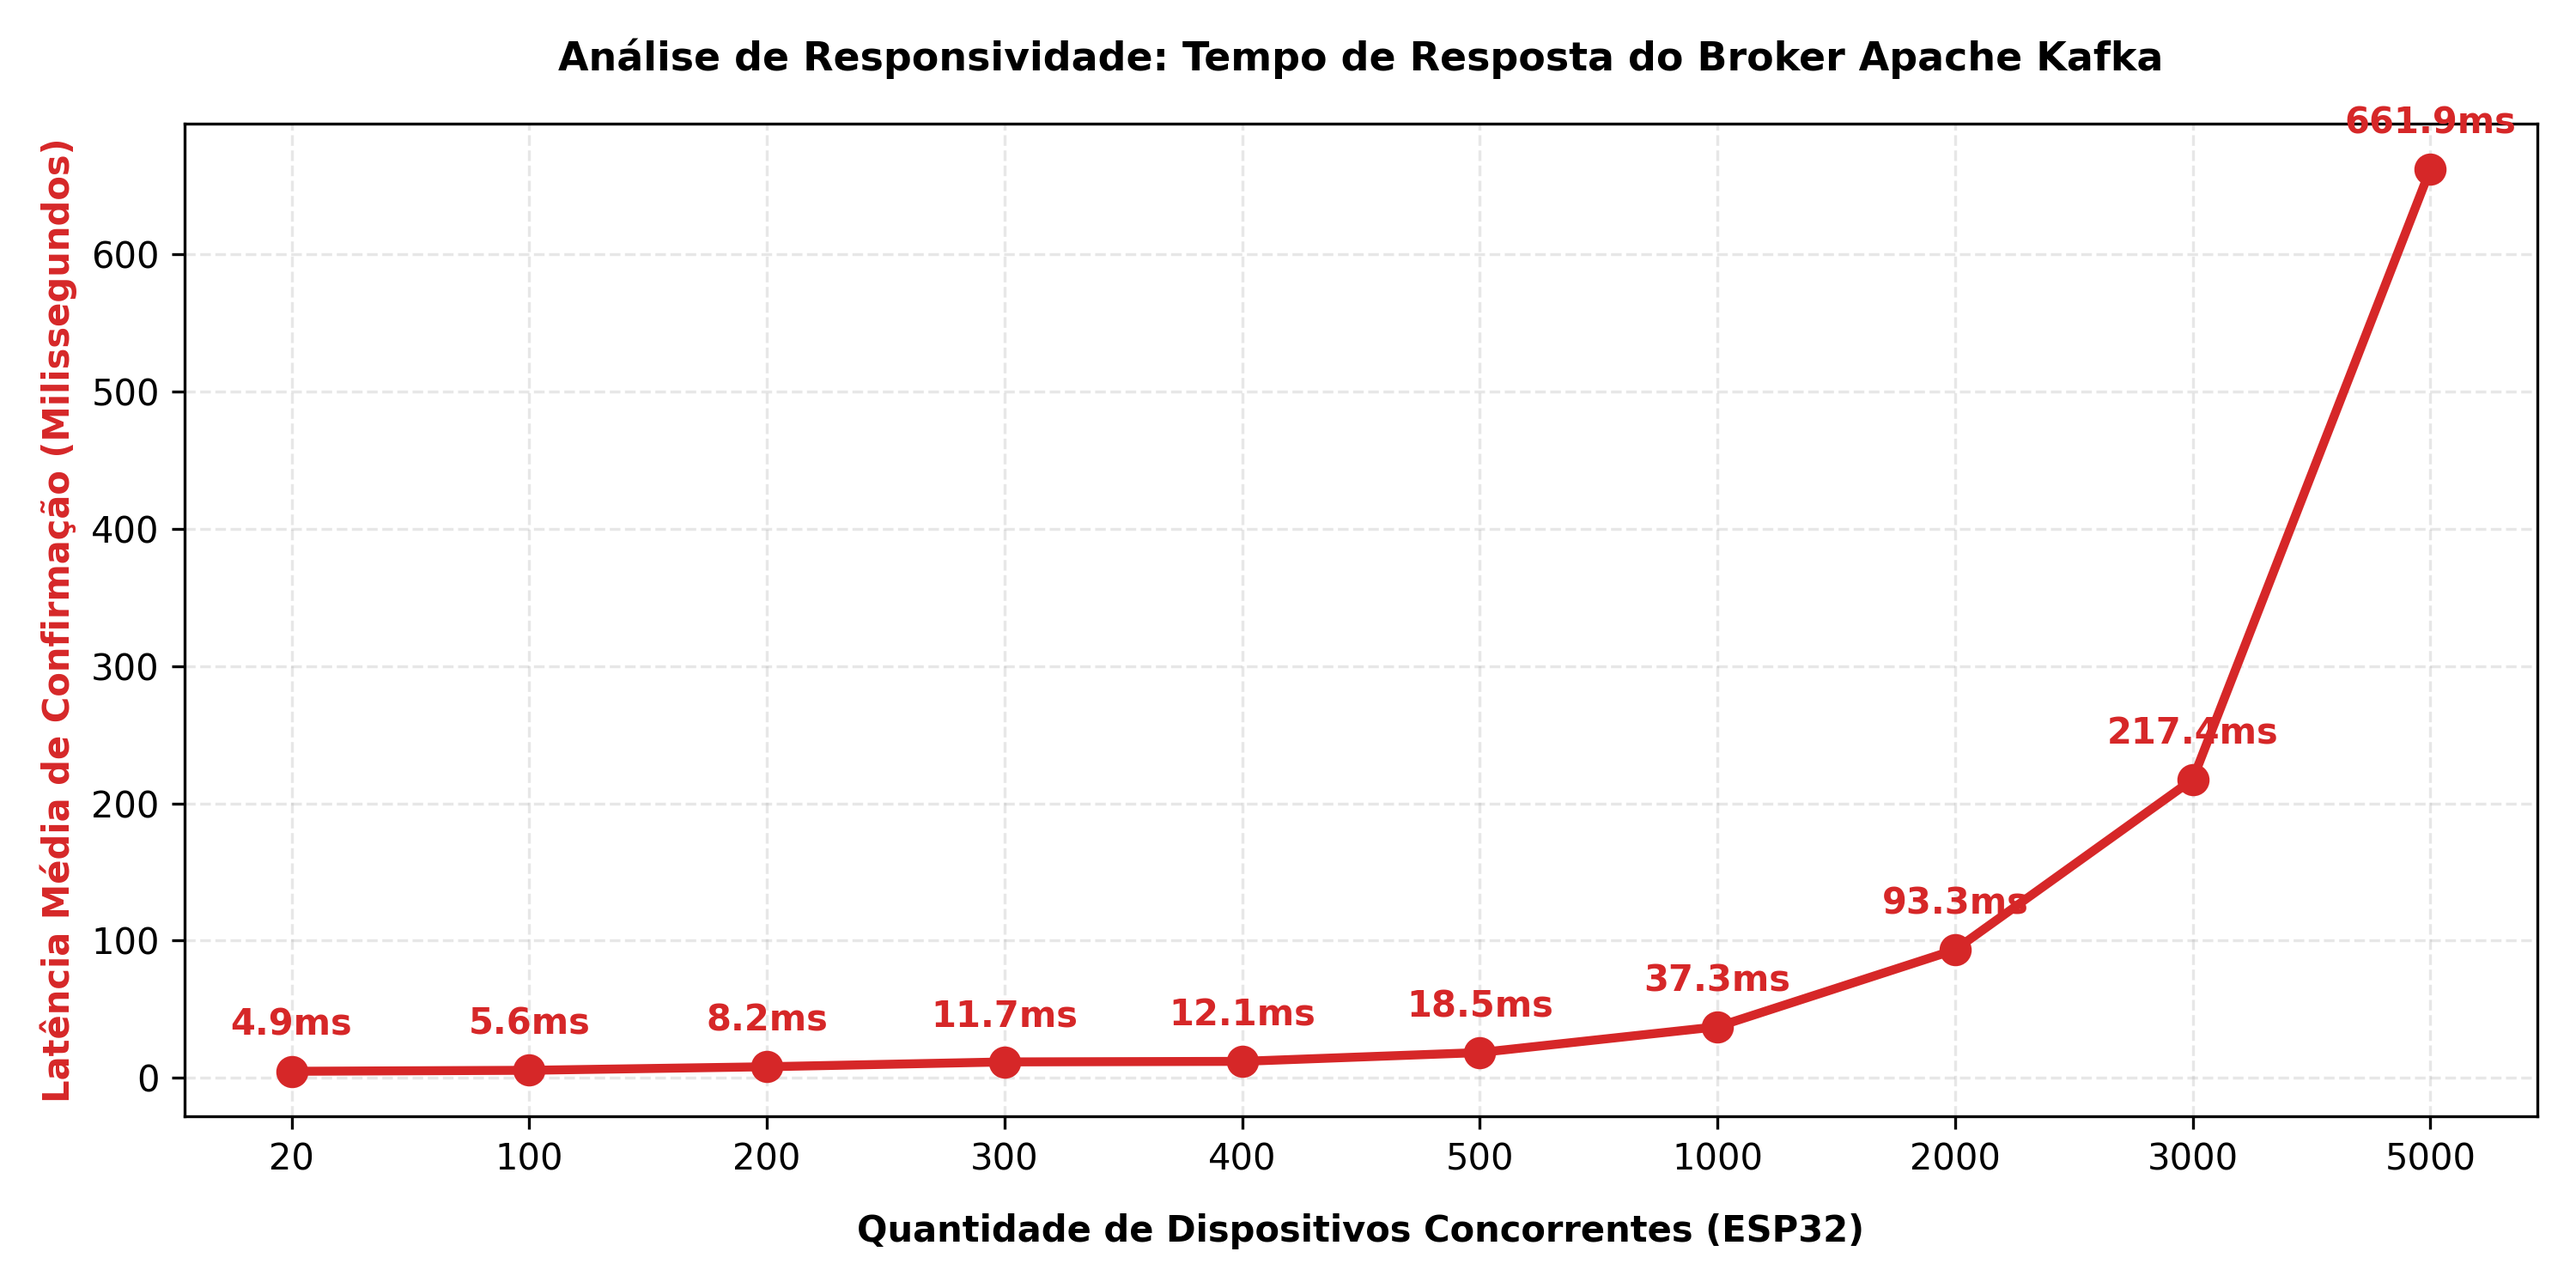
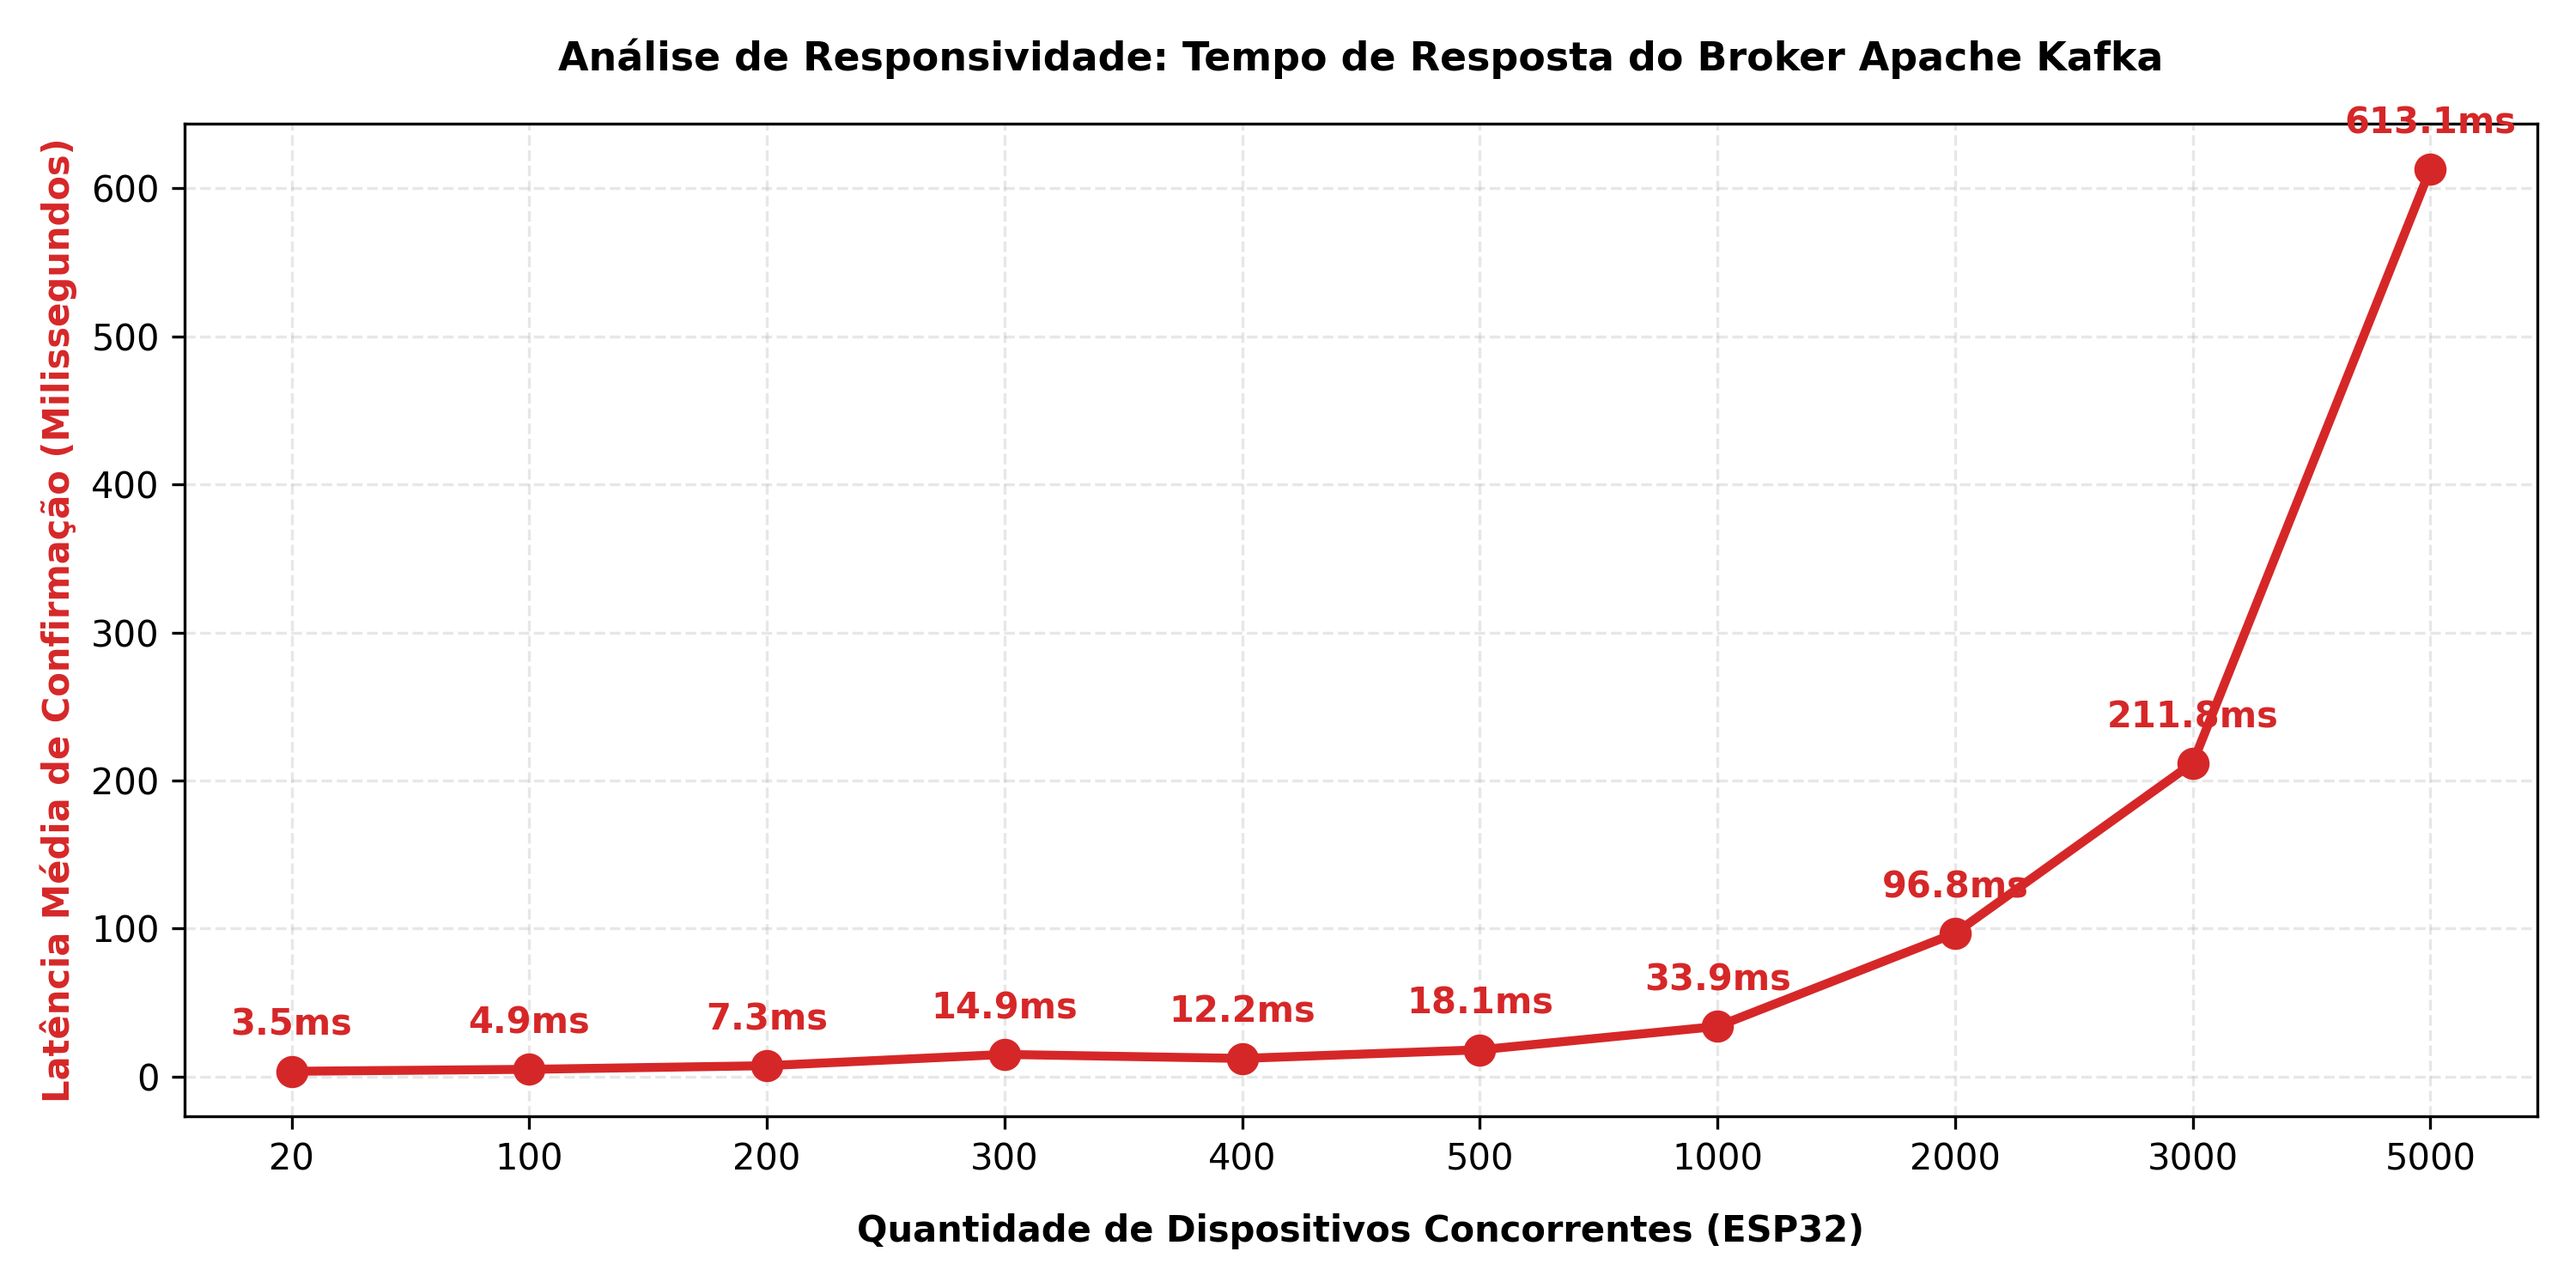
atualizando readme

diff --git a/monitor_postgres_tempo_real.py b/monitor_postgres_tempo_real.py
@@ -1,0 +1,139 @@
+import subprocess
+import sys
+import time
+from pathlib import Path
+
+
+PROJECT_ROOT = Path(__file__).resolve().parent
+DOCKER_DIR = PROJECT_ROOT / "docker"
+POSTGRES_CONTAINER = "postgres_db"
+POSTGRES_USER = "admin"
+POSTGRES_DB = "incendios_db"
+REFRESH_SECONDS = 2
+ROW_LIMIT = 10
+
+
+def run_command(command, cwd=None, check=True):
+    return subprocess.run(
+        command,
+        cwd=cwd,
+        check=check,
+        text=True,
+        capture_output=True,
+    )
+
+
+def ensure_docker_compose_up():
+    print("Subindo a infraestrutura Docker...")
+    result = run_command(["docker", "compose", "up", "-d"], cwd=DOCKER_DIR)
+    if result.stdout.strip():
+        print(result.stdout.strip())
+    if result.stderr.strip():
+        print(result.stderr.strip())
+
+
+def wait_for_postgres(timeout_seconds=60):
+    print("Aguardando o PostgreSQL ficar disponivel...")
+    deadline = time.time() + timeout_seconds
+
+    while time.time() < deadline:
+        result = subprocess.run(
+            [
+                "docker",
+                "exec",
+                POSTGRES_CONTAINER,
+                "pg_isready",
+                "-U",
+                POSTGRES_USER,
+                "-d",
+                POSTGRES_DB,
+            ],
+            text=True,
+            capture_output=True,
+        )
+        if result.returncode == 0:
+            print("PostgreSQL pronto para consultas.")
+            return
+        time.sleep(2)
+
+    raise RuntimeError("Timeout aguardando o PostgreSQL ficar disponivel.")
+
+
+def fetch_table_output():
+    query = (
+        "SELECT sensor_id, timestamp, temperatura, umidade, co2, "
+        "status_ia_borda, indice_risco "
+        "FROM historico_sensores "
+        "ORDER BY timestamp DESC "
+        f"LIMIT {ROW_LIMIT};"
+    )
+    result = run_command(
+        [
+            "docker",
+            "exec",
+            "-i",
+            POSTGRES_CONTAINER,
+            "psql",
+            "-U",
+            POSTGRES_USER,
+            "-d",
+            POSTGRES_DB,
+            "-P",
+            "pager=off",
+            "-c",
+            query,
+        ],
+        check=False,
+    )
+    return result.returncode, result.stdout.strip(), result.stderr.strip()
+
+
+def clear_screen():
+    subprocess.run(["clear"], check=False)
+
+
+def monitor_loop():
+    print("Monitorando os dados gravados no PostgreSQL. Pressione Ctrl+C para sair.")
+    time.sleep(1)
+
+    while True:
+        clear_screen()
+        print("=== MONITOR DE DADOS DO POSTGRESQL ===")
+        print(f"Atualizacao a cada {REFRESH_SECONDS} segundos")
+        print(f"Horario da consulta: {time.strftime('%Y-%m-%d %H:%M:%S')}")
+        print()
+
+        code, stdout, stderr = fetch_table_output()
+        if code == 0:
+            if stdout:
+                print(stdout)
+            else:
+                print("Nenhum dado encontrado na tabela historico_sensores.")
+        else:
+            print("Falha ao consultar a tabela historico_sensores.")
+            if stderr:
+                print(stderr)
+            if stdout:
+                print(stdout)
+
+        time.sleep(REFRESH_SECONDS)
+
+
+def main():
+    try:
+        ensure_docker_compose_up()
+        wait_for_postgres()
+        monitor_loop()
+    except KeyboardInterrupt:
+        print("\nMonitoramento encerrado pelo usuario.")
+    except FileNotFoundError as exc:
+        print(f"Comando nao encontrado: {exc}")
+        print("Verifique se o Docker esta instalado e disponivel no PATH.")
+        sys.exit(1)
+    except Exception as exc:
+        print(f"Erro ao iniciar o monitoramento: {exc}")
+        sys.exit(1)
+
+
+if __name__ == "__main__":
+    main()

diff --git a/README.md b/README.md
@@ -27,6 +27,7 @@ PostgreSQL
 ## Estrutura Do Projeto
 
 - `simulador_stress2.py`: simulador de carga que gera telemetria de sensores, envia mensagens ao Kafka e gera graficos de throughput, latencia e perda de mensagens.
+- `monitor_postgres_tempo_real.py`: rotina Python para subir o Docker e monitorar em tempo real os dados gravados no PostgreSQL.
 - `spark/spark_consumer.py`: consumidor Spark Structured Streaming que le o topico Kafka, processa o JSON, calcula o indice de risco e persiste no PostgreSQL.
 - `spark/startspark.sh`: comando pronto para iniciar o consumidor Spark com os pacotes Kafka e PostgreSQL.
 - `spark/startspark_v`: variacao do script de inicializacao do Spark.
@@ -75,16 +76,24 @@ Portas principais:
 
 ## Persistencia No PostgreSQL
 
-O projeto trabalha com mensagens em JSON e com foco em armazenamento no PostgreSQL usando `JSONB`.
+Observacao importante:
 
-Como nao existe um script SQL no repositorio para criacao automatica da estrutura, crie manualmente uma tabela para persistir o payload e os metadados principais antes da execucao:
+- o `spark_consumer.py` atual grava os dados em formato tabular no PostgreSQL
+- portanto, a tabela real usada hoje nao possui as colunas `id`, `timestamp_evento` e `payload`
+- se voce quiser migrar para `JSONB` de ponta a ponta, sera necessario ajustar o `spark_consumer.py`
+
+Como nao existe um script SQL no repositorio para criacao automatica da estrutura, crie manualmente a tabela abaixo antes da execucao:
 
 ```sql
 CREATE TABLE IF NOT EXISTS historico_sensores (
-    id BIGSERIAL PRIMARY KEY,
-    sensor_id VARCHAR(50),
-    timestamp_evento TIMESTAMP,
-    payload JSONB NOT NULL,
+    sensor_id TEXT,
+    timestamp TIMESTAMPTZ,
+    latitude DOUBLE PRECISION,
+    longitude DOUBLE PRECISION,
+    temperatura DOUBLE PRECISION,
+    umidade DOUBLE PRECISION,
+    co2 DOUBLE PRECISION,
+    status_ia_borda TEXT,
     indice_risco DOUBLE PRECISION
 );
 ```
@@ -95,12 +104,95 @@ Exemplo de acesso ao PostgreSQL no container:
 docker exec -it postgres_db psql -U admin -d incendios_db
 ```
 
-Se desejar otimizar consultas sobre o `payload`, voce pode criar um indice GIN:
+### Monitoramento automatico com Python
+
+Se preferir, voce pode usar a rotina Python do projeto para subir o Docker automaticamente e acompanhar os dados sendo gravados no PostgreSQL em tempo real:
+
+```bash
+cd "/Users/paulocesar/Estudo/Mestrado/Tópicos em Sistemas de Computação /Trabalho/projeto_sensores"
+python3 monitor_postgres_tempo_real.py
+```
+
+Essa rotina:
+
+- executa `docker compose up -d` no diretorio `docker`
+- espera o PostgreSQL ficar disponivel
+- consulta periodicamente os 10 registros mais recentes da tabela `historico_sensores`
+- atualiza a visualizacao no terminal a cada 2 segundos
+
+Observacao:
+
+- essa rotina monitora apenas o PostgreSQL
+- para ver novos dados entrando, o `spark_consumer.py` e o `simulador_stress2.py` devem estar rodando em outros terminais
+
+Comando direto para acessar o PostgreSQL:
+
+```bash
+docker exec -it postgres_db psql -U admin -d incendios_db
+```
+
+### Como visualizar os dados no PostgreSQL em tempo real
+
+Depois de entrar no `psql`, voce pode executar consultas para acompanhar os dados gravados na tabela `historico_sensores`.
+
+Ver os 10 registros mais recentes:
 
 ```sql
-CREATE INDEX IF NOT EXISTS idx_historico_sensores_payload
-ON historico_sensores
-USING GIN (payload);
+SELECT sensor_id, timestamp, temperatura, umidade, co2, status_ia_borda, indice_risco
+FROM historico_sensores
+ORDER BY timestamp DESC
+LIMIT 10;
+```
+
+Ver uma amostra tabular mais compacta:
+
+```sql
+SELECT
+    sensor_id,
+    timestamp,
+    temperatura,
+    umidade,
+    co2,
+    status_ia_borda
+FROM historico_sensores
+ORDER BY timestamp DESC
+LIMIT 10;
+```
+
+Atualizar a consulta automaticamente a cada 2 segundos dentro do `psql`:
+
+```sql
+SELECT sensor_id, timestamp, temperatura, umidade, co2, indice_risco
+FROM historico_sensores
+ORDER BY timestamp DESC
+LIMIT 10;
+\watch 2
+```
+
+Exemplo completo, exatamente na ordem de uso:
+
+```bash
+docker exec -it postgres_db psql -U admin -d incendios_db
+```
+
+```sql
+SELECT sensor_id, timestamp, temperatura, umidade, co2, status_ia_borda, indice_risco
+FROM historico_sensores
+ORDER BY timestamp DESC
+LIMIT 10;
+\watch 2
+```
+
+Se preferir abrir o `psql` e ja executar uma consulta diretamente pelo terminal:
+
+```bash
+docker exec -it postgres_db psql -U admin -d incendios_db -c "SELECT sensor_id, timestamp, temperatura, umidade, co2, status_ia_borda, indice_risco FROM historico_sensores ORDER BY timestamp DESC LIMIT 10;"
+```
+
+Para inspecionar as colunas reais da tabela a qualquer momento:
+
+```bash
+docker exec -it postgres_db psql -U admin -d incendios_db -c "\d historico_sensores"
 ```
 
 Depois disso, execute o `CREATE TABLE`.
@@ -162,7 +254,7 @@ O simulador:
 Responsabilidades:
 
 - simular sensores ESP32 concorrentes
-- gerar payloads JSON compativeis com armazenamento em `JSONB`
+- gerar mensagens JSON para o pipeline Kafka
 - publicar mensagens no Kafka usando `AIOKafkaProducer`
 - medir latencia media de confirmacao de envio
 - calcular throughput
@@ -203,6 +295,15 @@ Observacao:
 
 - esses arquivos sao legados e nao fazem parte do fluxo atual documentado
 
+### `monitor_postgres_tempo_real.py`
+
+Responsabilidades:
+
+- subir a infraestrutura Docker automaticamente
+- aguardar o PostgreSQL responder
+- executar consultas recorrentes na tabela `historico_sensores`
+- mostrar no terminal os registros mais recentes em tempo real
+
 ## Ordem Recomendada De Execucao
 
 Use esta ordem para evitar erro de conexao:
@@ -211,6 +312,7 @@ Use esta ordem para evitar erro de conexao:
 2. criar a tabela `historico_sensores` no PostgreSQL
 3. iniciar o `spark_consumer.py`
 4. executar o `simulador_stress2.py`
+5. opcionalmente executar `monitor_postgres_tempo_real.py` para acompanhar as gravacoes
 
 ## Problemas Comuns
 
@@ -249,9 +351,9 @@ Verifique:
 
 Considere:
 
-- armazenar o payload bruto do sensor em uma coluna `JSONB`
-- manter colunas auxiliares apenas para campos usados com mais frequencia em filtro ou agregacao
-- criar indice GIN quando houver consultas frequentes sobre o `payload`
+- o README acima descreve a estrutura real gravada hoje pelo projeto
+- se quiser usar `JSONB`, o consumidor Spark precisa montar e gravar uma coluna `payload`
+- o modelo `JSONB` e uma evolucao possivel, mas nao corresponde ao schema atual da tabela
 
 ## Resultado Esperado
 
